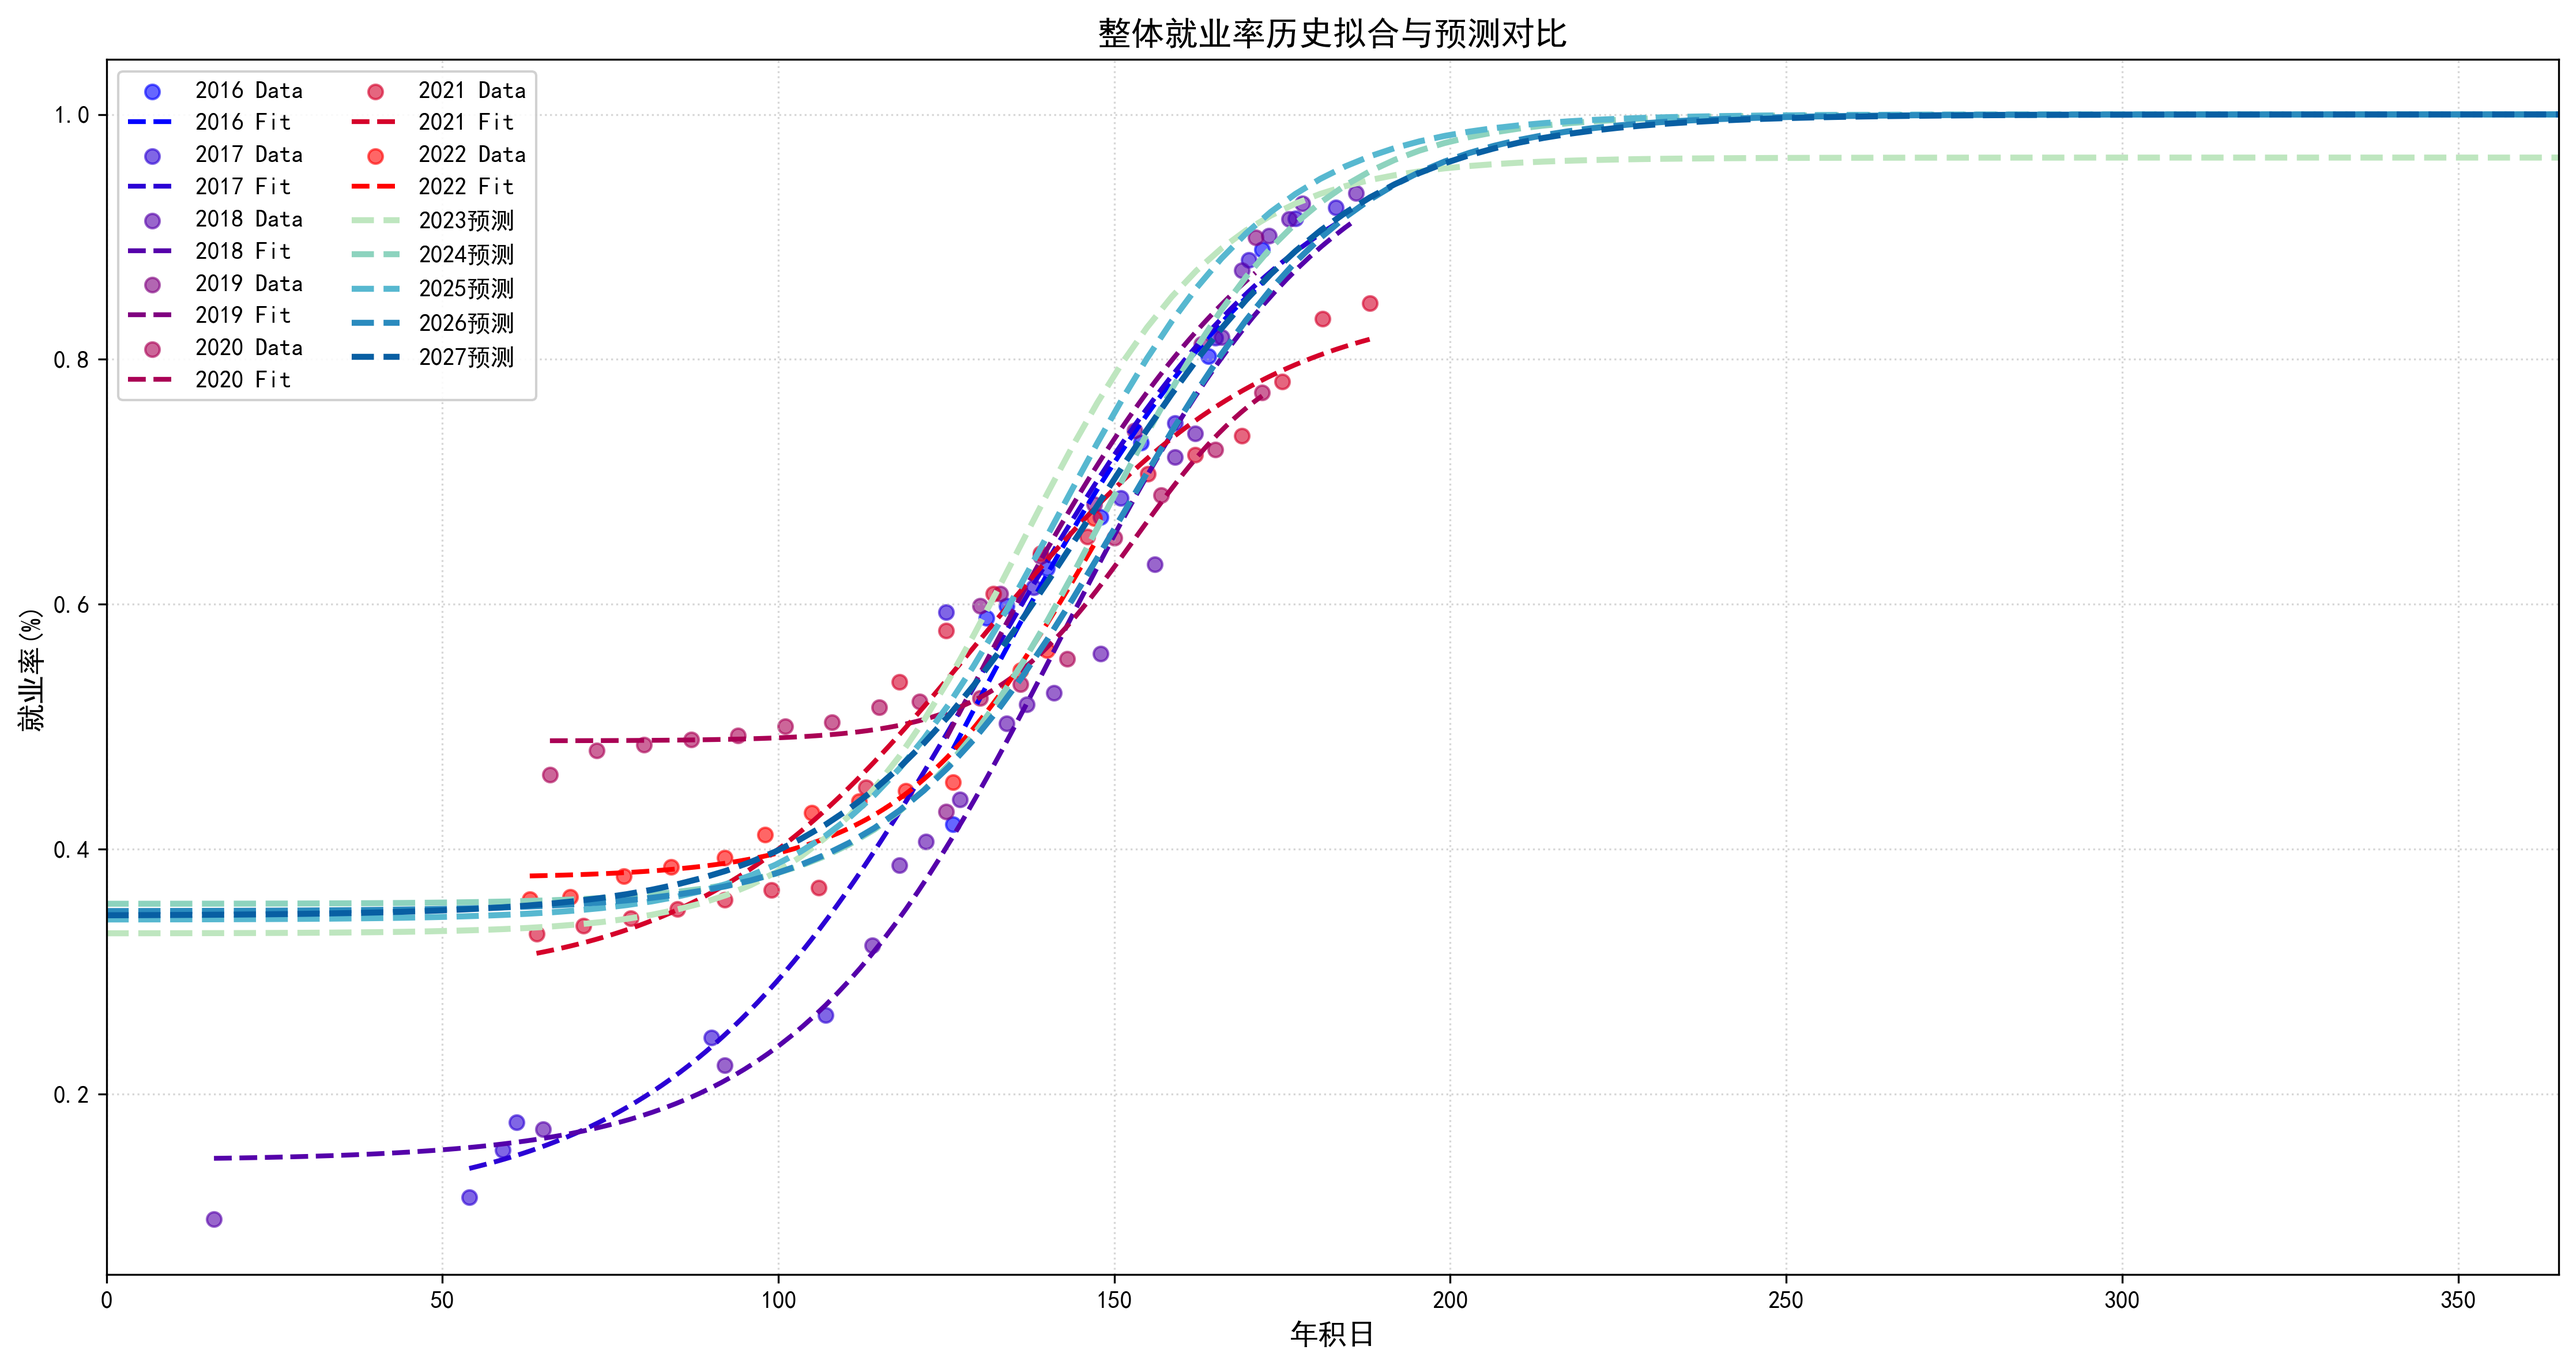
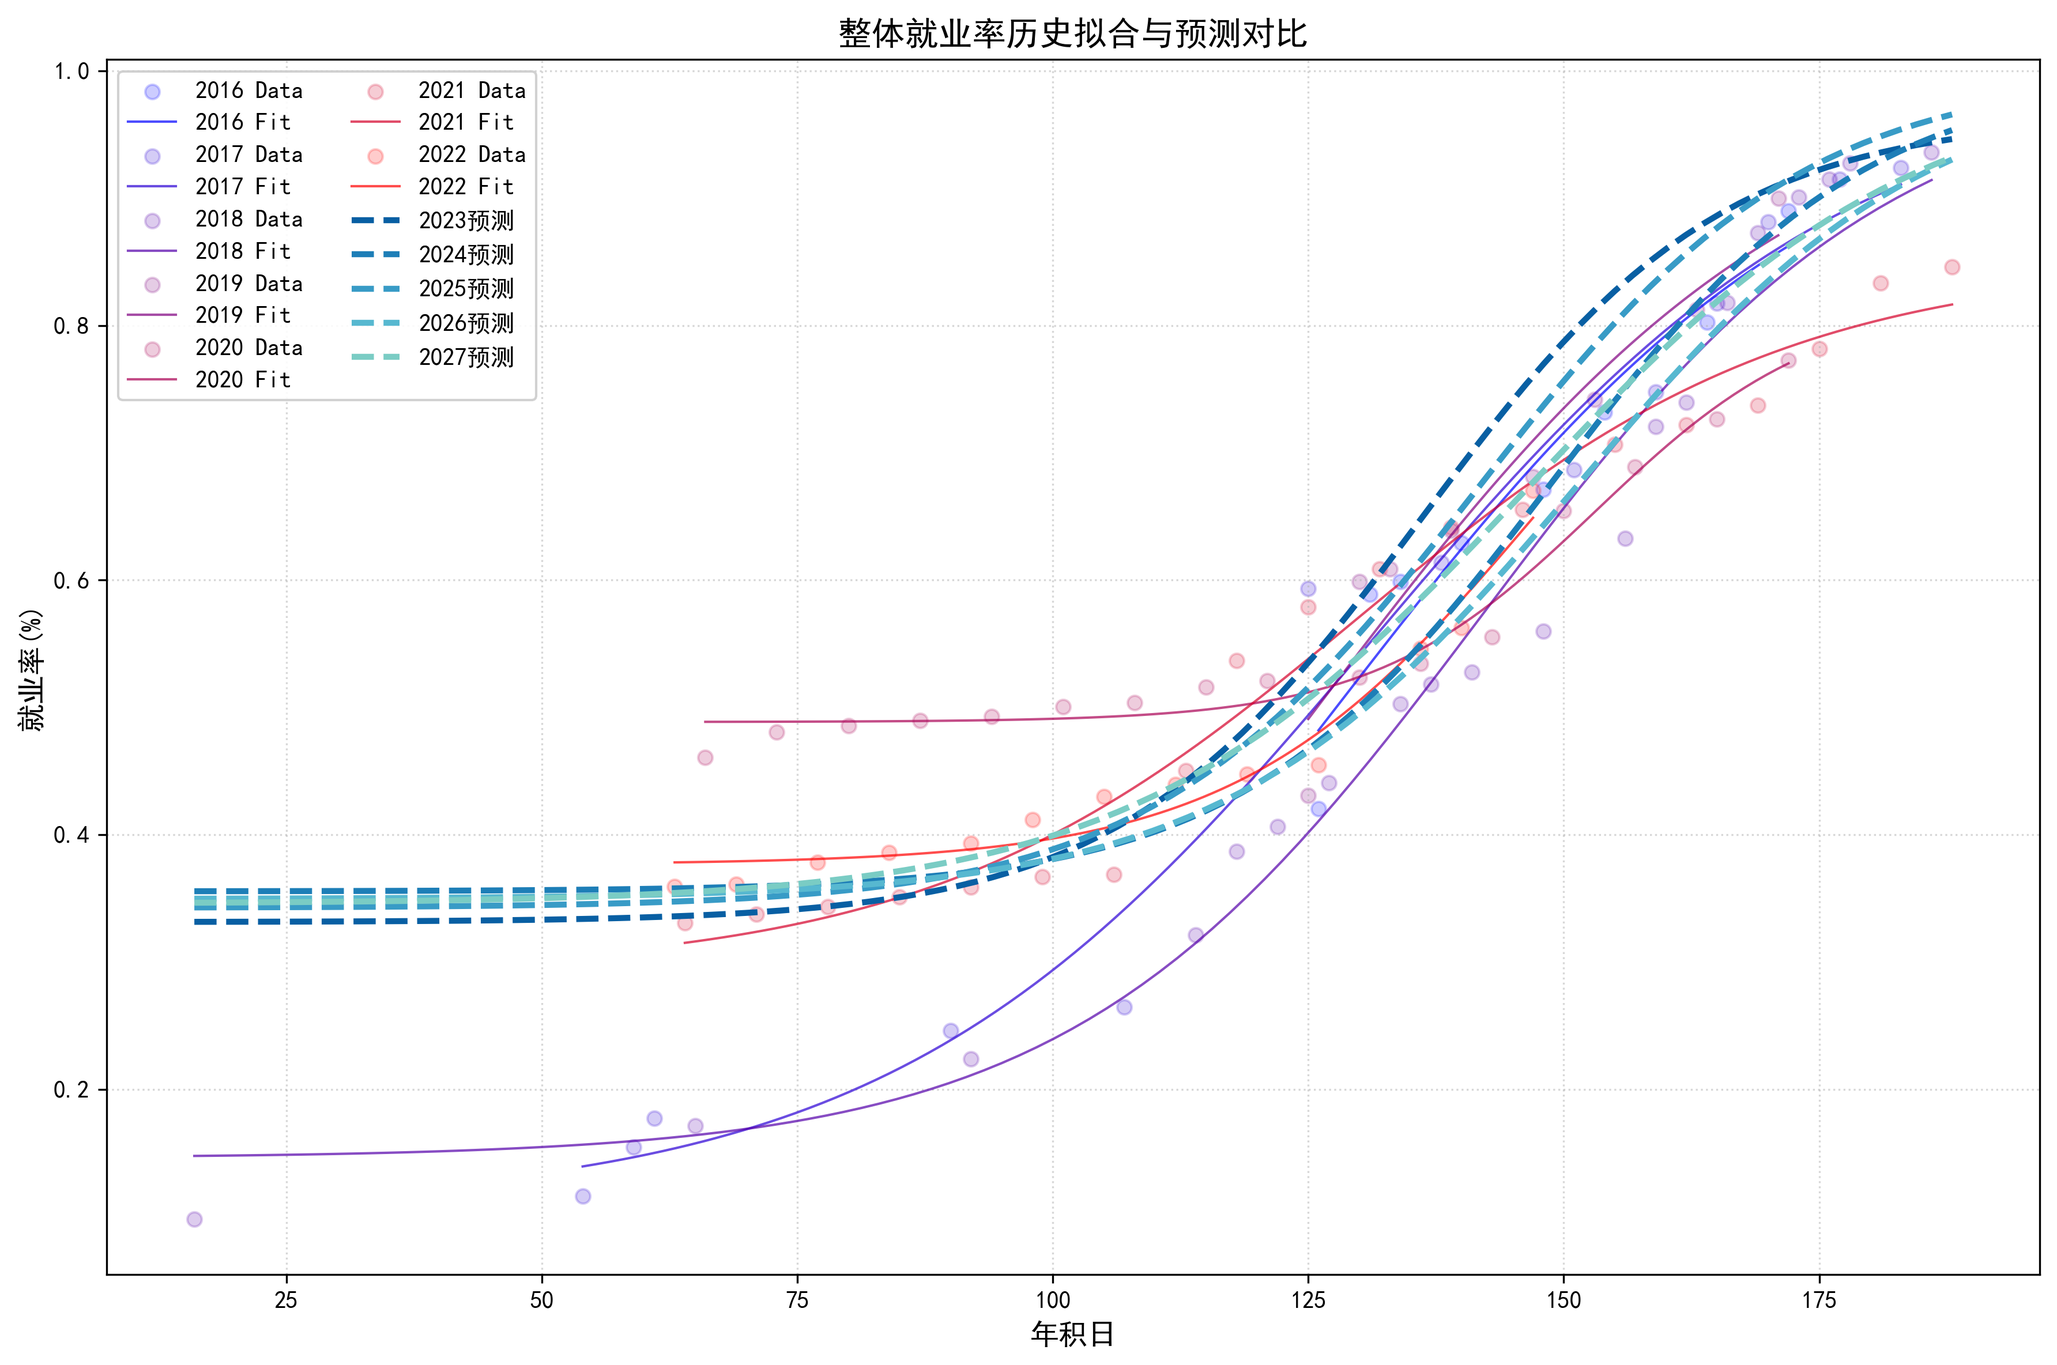
第一问完全解决

diff --git a/25NKUMCM-C/Q1_Logistic.py b/25NKUMCM-C/Q1_Logistic.py
@@ -5,6 +5,7 @@ from scipy.optimize import curve_fit
 from statsmodels.tsa.statespace.sarimax import SARIMAX
 from pmdarima import auto_arima
 from sklearn.metrics import mean_absolute_error
+import datetime
 
 
 years = range(2016, 2023)
@@ -236,7 +237,7 @@ def show_comparison(data, params_by_year, group_params, group_ci, subject):
             year_data["day_of_year"],
             year_data["employment_rate"],
             label=f"{year} Data",
-            alpha=0.6,
+            alpha=0.5,
             color=colors[year - 2016],
         )
 
@@ -249,7 +250,7 @@ def show_comparison(data, params_by_year, group_params, group_ci, subject):
             plt.plot(
                 x_fit,
                 y_fit,
-                "--",
+                "-",
                 linewidth=2,
                 label=f"{year} Fit",
                 color=colors[year - 2016],
@@ -585,10 +586,10 @@ def predict_attr(ddd):
 
 
 def show_prediction_comparison(params_by_year, pred_data, subject, data):
-    plt.figure(figsize=(15, 8))
+    plt.figure(figsize=(12, 8))
     x = np.linspace(0, 365, 100)
     # 生成渐变色（浅绿→深绿）
-    pred_colors = plt.cm.GnBu(np.linspace(0.3, 0.9, len(pred_data)))
+    pred_colors = plt.cm.GnBu(np.linspace(0.9, 0.5, len(pred_data)))
 
     # 定义从冷色到暖色的渐变颜色映射
     # 2016(冷色:蓝绿色) -> 2022(暖色:橙红色)
@@ -603,7 +604,7 @@ def show_prediction_comparison(params_by_year, pred_data, subject, data):
             year_data["day_of_year"],
             year_data["employment_rate"],
             label=f"{year} Data",
-            alpha=0.6,
+            alpha=0.2,
             color=colors[year - 2016],
         )
 
@@ -616,16 +617,19 @@ def show_prediction_comparison(params_by_year, pred_data, subject, data):
             plt.plot(
                 x_fit,
                 y_fit,
-                "--",
-                linewidth=2,
+                "-",
+                linewidth=1,
                 label=f"{year} Fit",
                 color=colors[year - 2016],
+                alpha=0.7,
             )
     # 绘制预测曲线（2023-2027）
+
+    x_pred = np.linspace(min(data["day_of_year"]), max(data["day_of_year"]), 100)
     for i, (year, row) in enumerate(pred_data.iterrows()):
-        y_pred = four_pl(x, row["A"], row["K"], row["k"], row["x0"])
+        y_pred = four_pl(x_pred, row["A"], row["K"], row["k"], row["x0"])
         plt.plot(
-            x,
+            x_pred,
             y_pred,
             color=pred_colors[i],
             linewidth=2.5,
@@ -639,7 +643,6 @@ def show_prediction_comparison(params_by_year, pred_data, subject, data):
     plt.ylabel("就业率(%)", fontsize=12)
     plt.legend(ncol=2, loc="upper left", framealpha=0.9)
     plt.grid(True, linestyle=":", alpha=0.5)
-    plt.xlim(0, 365)
     plt.tight_layout()
     plt.savefig(f"./Graphs/{subject}_full_comparison.png", dpi=300, bbox_inches="tight")
 
@@ -654,16 +657,47 @@ def function(subject):
     review(data, group_params)
     fff = predict_attr(ddd)
     show_prediction_comparison(params_by_year, fff.loc[2023:2027], subject, data)
+
+    predict_xtest = range(80, 180, 10)
+
+    predict_df = pd.DataFrame(columns=["时间", "就业率"])
+
+    for year in [2025, 2026]:
+        params = fff.loc[year][["A", "K", "k", "x0"]]
+        for x in predict_xtest:
+            # 计算就业率
+            rate = round(four_pl(x, *params) * 100, 1)
+
+            # 生成日期（示例：20250101）
+            date_obj = datetime.datetime(year, 1, 1) + datetime.timedelta(days=x - 1)
+            date_str = date_obj.strftime("%Y%m%d")
+
+            # 添加到数据框
+            predict_df.loc[date_str] = [date_str, rate]
+
+    # 设置索引并重命名列
+    predict_df.index.name = "日期"
+    predict_df.columns = [
+        "时间（格式为20230101，即年份+月份+日期）",
+        "就业率（%），保留一位小数",
+    ]
+
+    # 保存结果
+    predict_df.to_excel(f"./附件二：单变量预测.xlsx", index=False)
+    print(predict_df.head())
+
     plt.show()
+
+    # 创建日期索引（示例：假设年份为2023，实际会根据预测年份变化）
 
 
 def main():
     plt.rcParams["font.sans-serif"] = ["SimHei"]
     plt.rcParams["axes.unicode_minus"] = False
 
-    function("本科")
-    function("硕士")
-    function("博士")
+    # function("本科")
+    # function("硕士")
+    # function("博士")
     function("整体")
 
 
